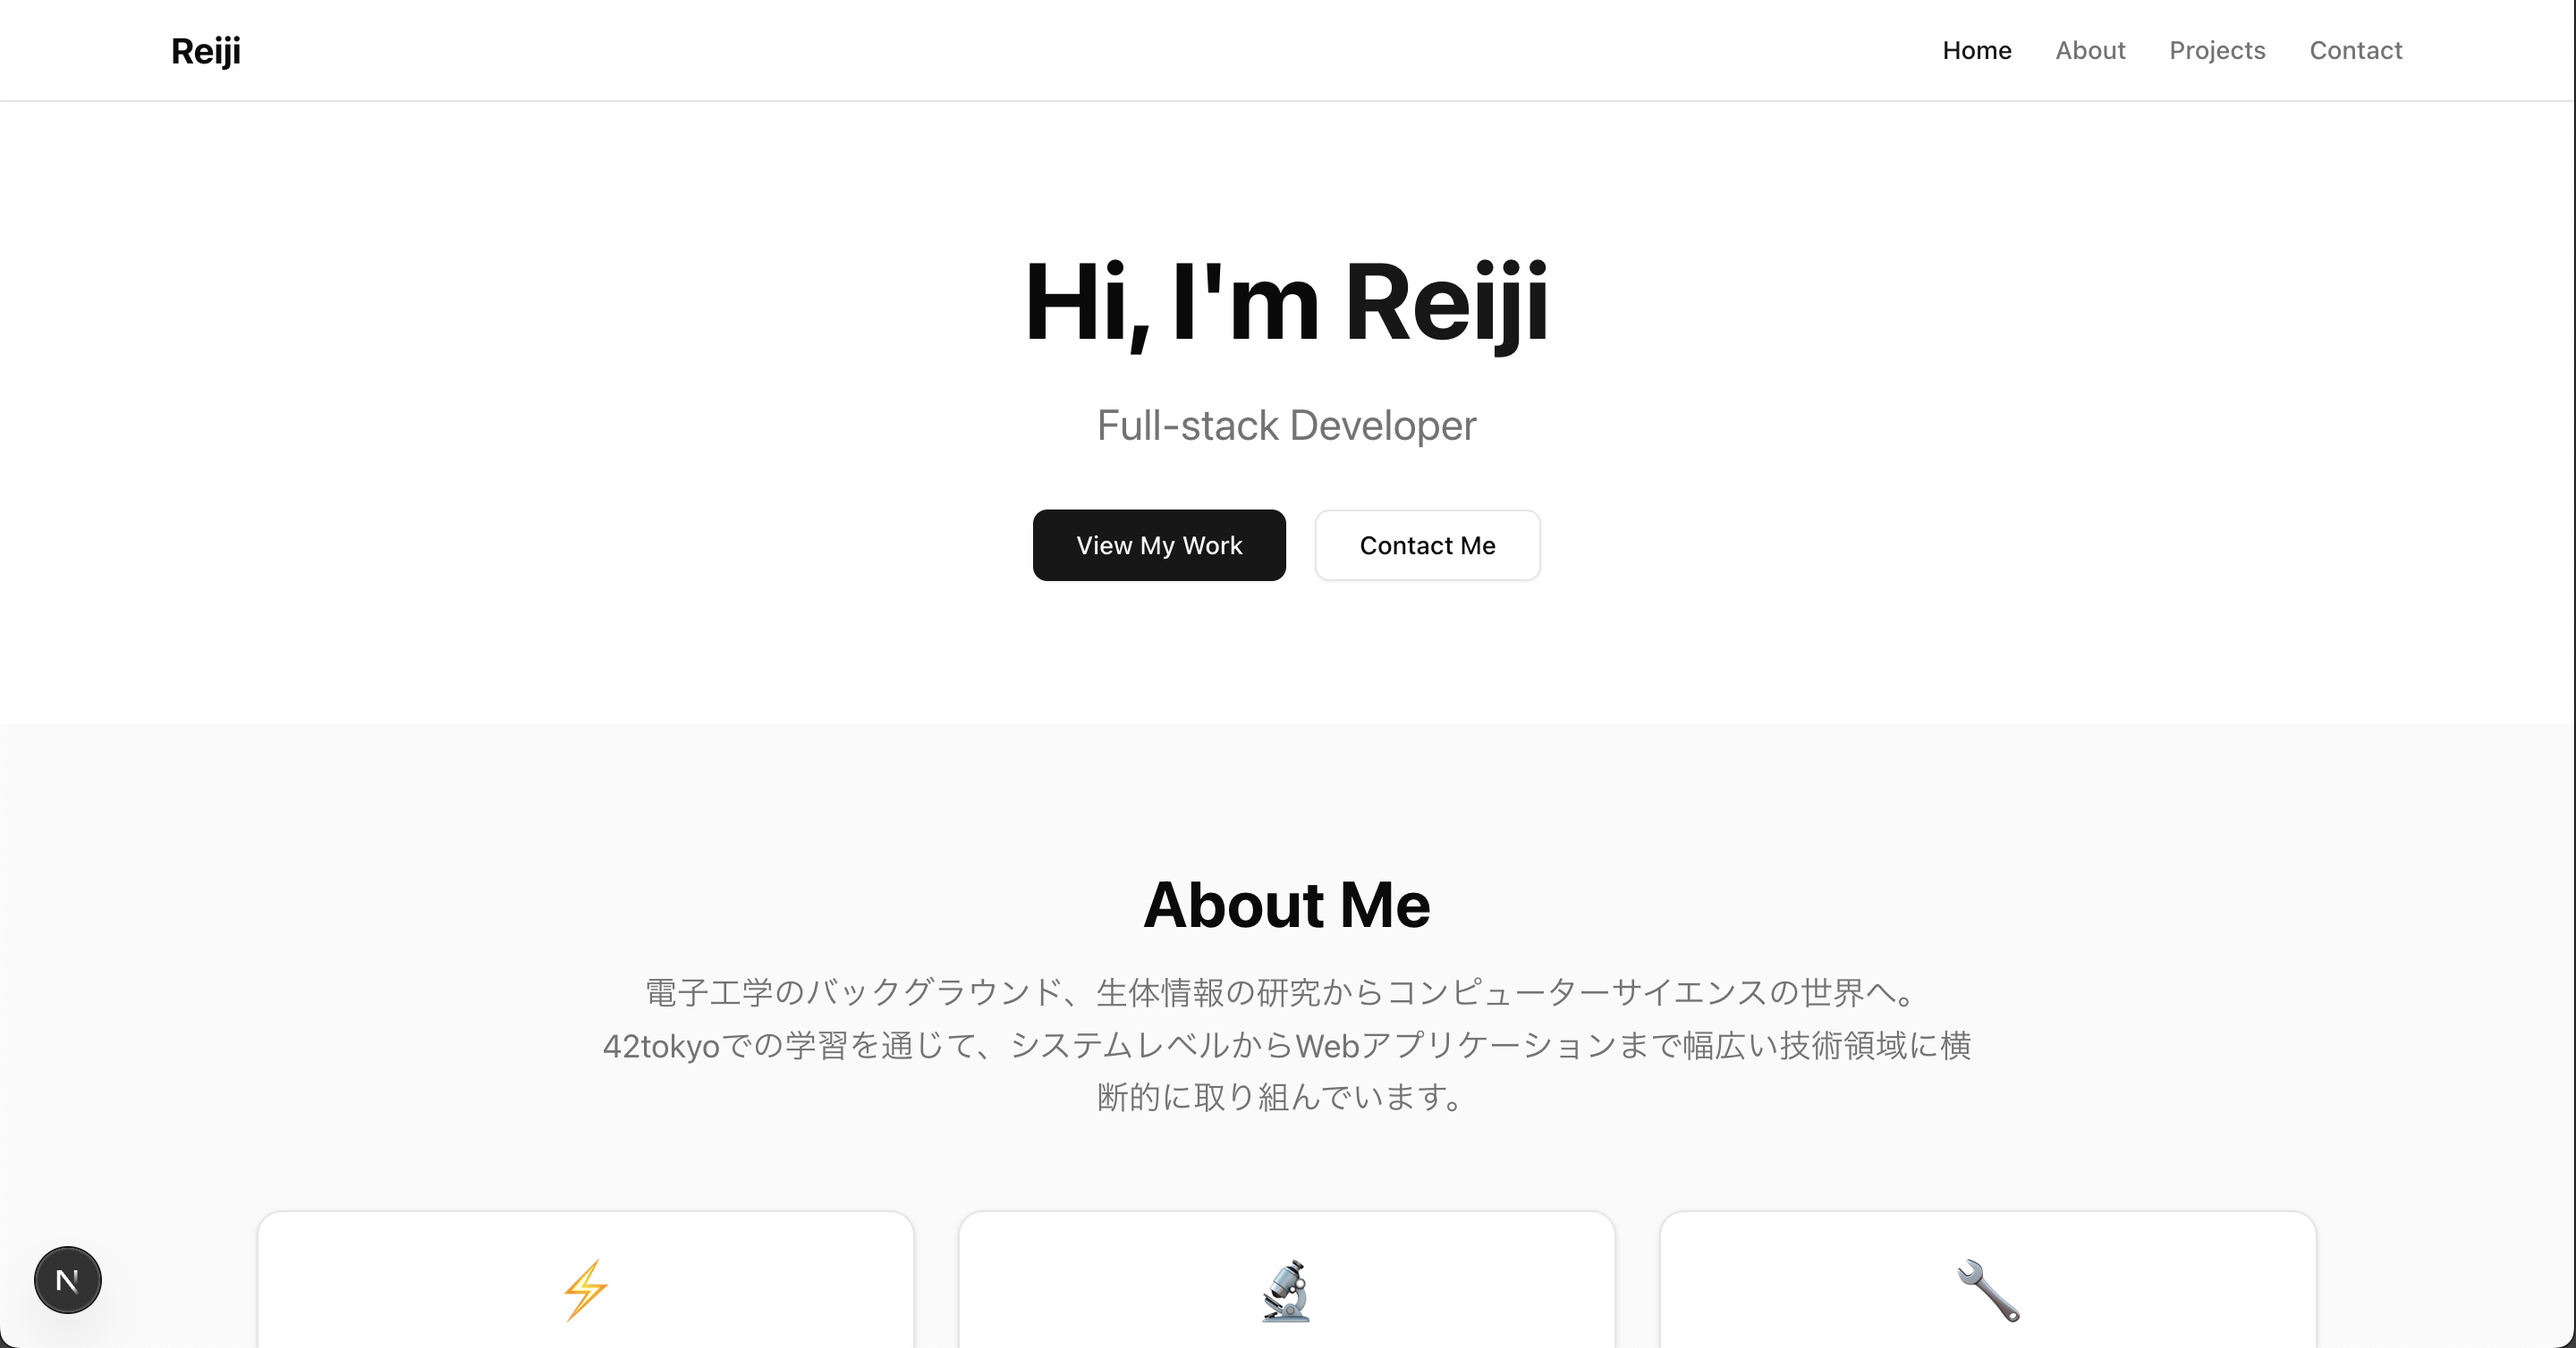
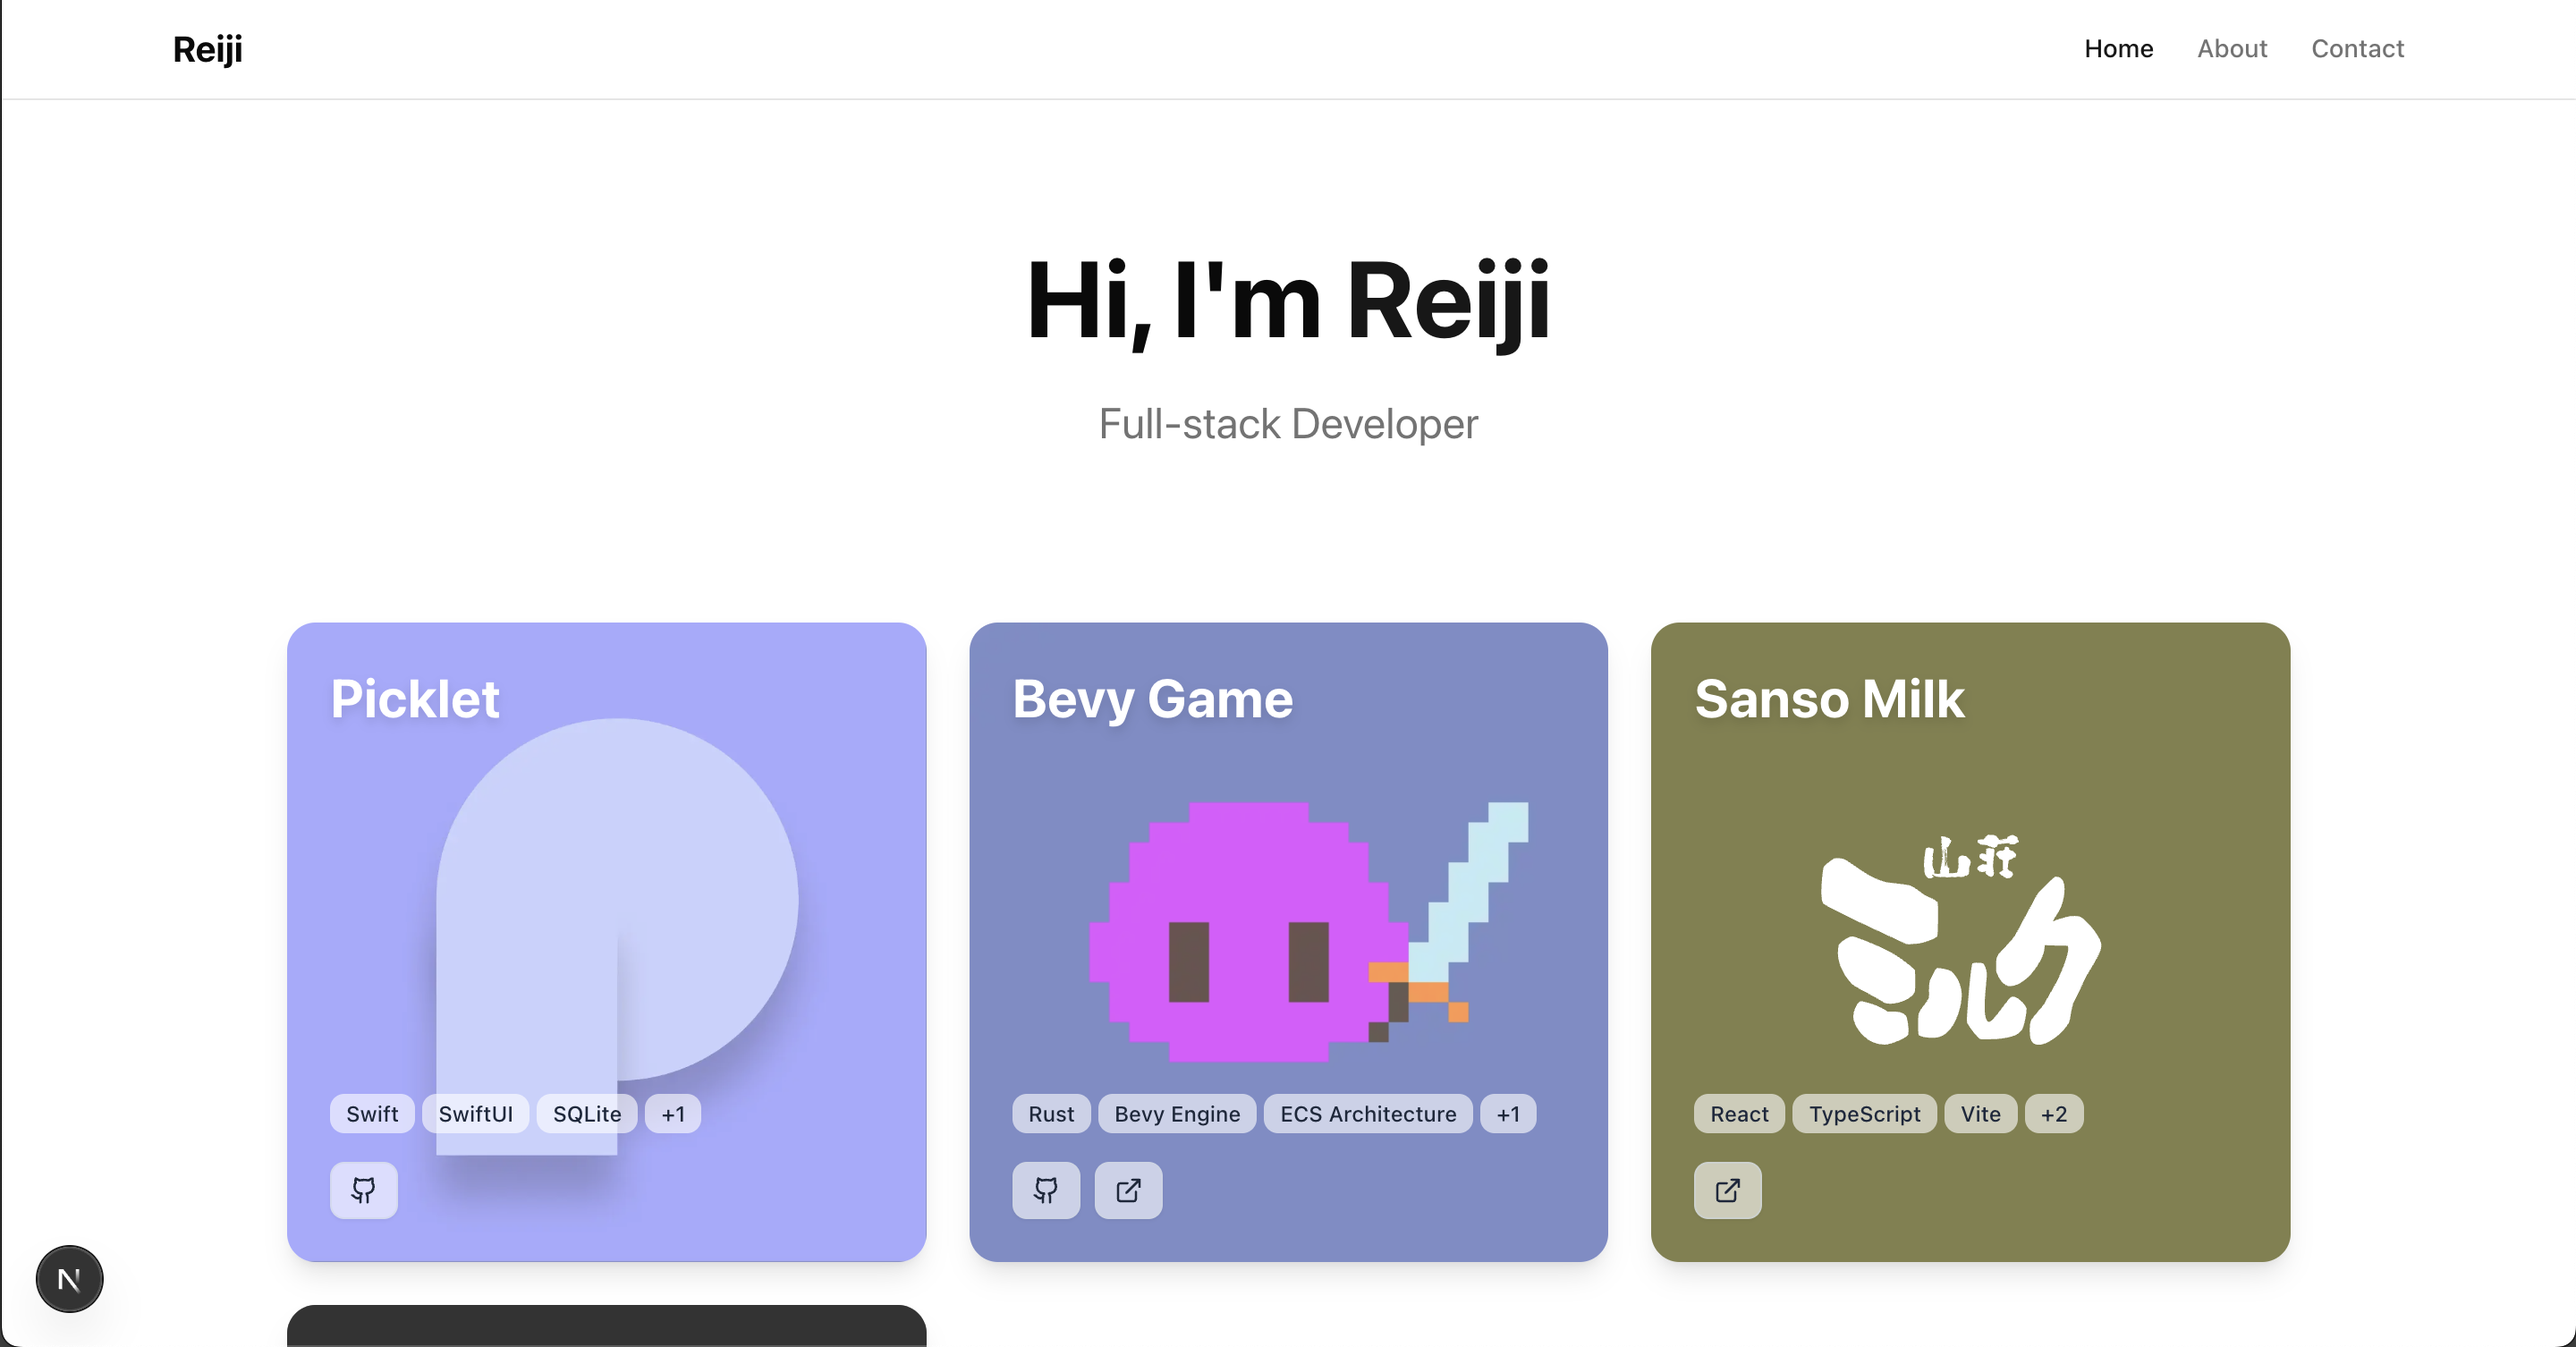
move about page & project page

diff --git a/src/components/header.tsx b/src/components/header.tsx
@@ -1,12 +1,15 @@
 "use client";
 
-import { motion } from "framer-motion";
+import { useState } from "react";
+import { motion, AnimatePresence } from "framer-motion";
 import { Button } from "@/components/ui/button";
 import Link from "next/link";
 import { usePathname } from "next/navigation";
+import { Menu, X } from "lucide-react";
 
 export function Header() {
   const pathname = usePathname();
+  const [isMenuOpen, setIsMenuOpen] = useState(false);
 
   const isActive = (path: string) => {
     if (path === "/" && pathname === "/") return true;
@@ -14,71 +17,138 @@ export function Header() {
     return false;
   };
 
+  const toggleMenu = () => {
+    setIsMenuOpen(!isMenuOpen);
+  };
+
+  const closeMenu = () => {
+    setIsMenuOpen(false);
+  };
+
   return (
-    <motion.header
-      initial={{ opacity: 0, y: -20 }}
-      animate={{ opacity: 1, y: 0 }}
-      transition={{ duration: 0.6 }}
-      className="sticky top-0 z-50 w-full border-b bg-background/95 backdrop-blur supports-[backdrop-filter]:bg-background/60"
-    >
-      <div className="container mx-auto flex h-14 items-center justify-between px-4">
-        {/* Logo */}
-        <div className="flex items-center space-x-2">
-          <Link
-            href="/"
-            className="text-xl font-bold hover:text-primary transition-colors"
-          >
-            Reiji
-          </Link>
-        </div>
+    <>
+      <motion.header
+        initial={{ opacity: 0, y: -20 }}
+        animate={{ opacity: 1, y: 0 }}
+        transition={{ duration: 0.6 }}
+        className="sticky top-0 z-50 w-full border-b bg-background/95 backdrop-blur supports-[backdrop-filter]:bg-background/60"
+      >
+        <div className="container mx-auto flex h-14 items-center justify-between px-4">
+          {/* Logo */}
+          <div className="flex items-center space-x-2">
+            <Link
+              href="/"
+              className="text-xl font-bold hover:text-primary transition-colors"
+              onClick={closeMenu}
+            >
+              Reiji
+            </Link>
+          </div>
 
-        {/* Navigation */}
-        <nav className="hidden md:flex items-center space-x-6">
-          <Link
-            href="/"
-            className={`text-sm font-medium transition-colors ${
-              isActive("/")
-                ? "text-primary"
-                : "text-muted-foreground hover:text-primary"
-            }`}
-          >
-            Home
-          </Link>
-          <Link
-            href="/#about"
-            className="text-sm font-medium text-muted-foreground hover:text-primary transition-colors"
-          >
-            About
-          </Link>
-          <Link
-            href="/projects"
-            className={`text-sm font-medium transition-colors ${
-              isActive("/projects")
-                ? "text-primary"
-                : "text-muted-foreground hover:text-primary"
-            }`}
-          >
-            Projects
-          </Link>
-          <Link
-            href="/contact"
-            className={`text-sm font-medium transition-colors ${
-              isActive("/contact")
-                ? "text-primary"
-                : "text-muted-foreground hover:text-primary"
-            }`}
-          >
-            Contact
-          </Link>
-        </nav>
+          {/* Desktop Navigation */}
+          <nav className="hidden md:flex items-center space-x-6">
+            <Link
+              href="/"
+              className={`text-sm font-medium transition-colors ${
+                isActive("/")
+                  ? "text-primary"
+                  : "text-muted-foreground hover:text-primary"
+              }`}
+            >
+              Home
+            </Link>
+            <Link
+              href="/about"
+              className={`text-sm font-medium transition-colors ${
+                isActive("/about")
+                  ? "text-primary"
+                  : "text-muted-foreground hover:text-primary"
+              }`}
+            >
+              About
+            </Link>
+            <Link
+              href="/contact"
+              className={`text-sm font-medium transition-colors ${
+                isActive("/contact")
+                  ? "text-primary"
+                  : "text-muted-foreground hover:text-primary"
+              }`}
+            >
+              Contact
+            </Link>
+          </nav>
 
-        {/* Mobile Menu Button (将来的にモバイル対応時に使用) */}
-        <div className="md:hidden">
-          <Button variant="ghost" size="sm">
-            Menu
-          </Button>
+          {/* Mobile Menu Button */}
+          <div className="md:hidden">
+            <Button variant="ghost" size="sm" onClick={toggleMenu}>
+              {isMenuOpen ? <X size={20} /> : <Menu size={20} />}
+            </Button>
+          </div>
         </div>
-      </div>
-    </motion.header>
+      </motion.header>
+
+      {/* Mobile Navigation Overlay */}
+      <AnimatePresence>
+        {isMenuOpen && (
+          <>
+            {/* Backdrop */}
+            <motion.div
+              initial={{ opacity: 0 }}
+              animate={{ opacity: 1 }}
+              exit={{ opacity: 0 }}
+              transition={{ duration: 0.2 }}
+              className="fixed inset-0 bg-black/20 z-40 md:hidden"
+              onClick={closeMenu}
+            />
+
+            {/* Menu */}
+            <motion.div
+              initial={{ opacity: 0, y: -10 }}
+              animate={{ opacity: 1, y: 0 }}
+              exit={{ opacity: 0, y: -10 }}
+              transition={{ duration: 0.2 }}
+              className="fixed top-14 left-0 right-0 z-50 bg-background border-b shadow-lg md:hidden"
+            >
+              <nav className="flex flex-col p-4">
+                <Link
+                  href="/"
+                  className={`text-sm font-medium transition-colors py-3 px-2 rounded hover:bg-muted ${
+                    isActive("/")
+                      ? "text-primary bg-muted"
+                      : "text-muted-foreground hover:text-primary"
+                  }`}
+                  onClick={closeMenu}
+                >
+                  Home
+                </Link>
+                <Link
+                  href="/about"
+                  className={`text-sm font-medium transition-colors py-3 px-2 rounded hover:bg-muted ${
+                    isActive("/about")
+                      ? "text-primary bg-muted"
+                      : "text-muted-foreground hover:text-primary"
+                  }`}
+                  onClick={closeMenu}
+                >
+                  About
+                </Link>
+                <Link
+                  href="/contact"
+                  className={`text-sm font-medium transition-colors py-3 px-2 rounded hover:bg-muted ${
+                    isActive("/contact")
+                      ? "text-primary bg-muted"
+                      : "text-muted-foreground hover:text-primary"
+                  }`}
+                  onClick={closeMenu}
+                >
+                  Contact
+                </Link>
+              </nav>
+            </motion.div>
+          </>
+        )}
+      </AnimatePresence>
+    </>
   );
 }

diff --git a/src/components/projects-section.tsx b/src/components/projects-section.tsx
@@ -1,45 +1,15 @@
 "use client";
 
-import { motion } from "framer-motion";
 import { ProjectCard } from "@/components/project-card";
 import { projects } from "@/lib/projects";
-import { Button } from "@/components/ui/button";
-import Link from "next/link";
-
-// Featured projects（最初の3つだけ表示）
-const featuredProjects = projects.slice(0, 3);
 
 export function ProjectsSection() {
 	return (
-		<section id="projects" className="py-20">
-			<div className="container mx-auto px-4">
-				<motion.div
-					initial={{ opacity: 0, y: 20 }}
-					whileInView={{ opacity: 1, y: 0 }}
-					transition={{ duration: 0.6 }}
-					viewport={{ once: true }}
-					className="text-center mb-12"
-				>
-					<h2 className="text-3xl md:text-4xl font-bold mb-4">
-						Featured Projects
-					</h2>
-					<p className="text-lg text-muted-foreground max-w-2xl mx-auto">
-						最近取り組んだプロジェクトの一部をご紹介します
-					</p>
-				</motion.div>
-
-				<div className="grid md:grid-cols-2 lg:grid-cols-3 gap-6 max-w-6xl mx-auto mb-8">
-					{featuredProjects.map((project) => (
-						<ProjectCard key={project.id} project={project} />
-					))}
-				</div>
-
-				{/* View All Projects Button */}
-				<div className="text-center">
-					<Button variant="outline" size="lg" asChild>
-						<Link href="/projects">View All Projects</Link>
-					</Button>
-				</div>
+		<section id="projects" className="py-8">
+			<div className="container mx-auto px-4 grid md:grid-cols-2 lg:grid-cols-3 gap-6 max-w-6xl">
+				{projects.map((project) => (
+					<ProjectCard key={project.id} project={project} />
+				))}
 			</div>
 		</section>
 	);

diff --git a/src/components/hero-section.tsx b/src/components/hero-section.tsx
@@ -1,12 +1,10 @@
 "use client";
 
 import { motion } from "framer-motion";
-import { Button } from "@/components/ui/button";
-import Link from "next/link";
 
 export function HeroSection() {
   return (
-    <section className="container mx-auto px-4 py-20 text-center">
+    <section className="container mx-auto px-4 py-20 pb-8 text-center">
       <motion.div
         initial={{ opacity: 0, y: 20 }}
         animate={{ opacity: 1, y: 0 }}
@@ -19,12 +17,6 @@ export function HeroSection() {
         <p className="text-xl md:text-2xl text-muted-foreground mb-8 max-w-2xl mx-auto">
           Full-stack Developer
         </p>
-        <Button size="lg" className="mr-4" asChild>
-          <Link href="/projects">View My Work</Link>
-        </Button>
-        <Button variant="outline" size="lg" asChild>
-          <Link href="/contact">Contact Me</Link>
-        </Button>
       </motion.div>
     </section>
   );

diff --git a/src/app/page.tsx b/src/app/page.tsx
@@ -1,14 +1,12 @@
 "use client";
 
 import { HeroSection } from "@/components/hero-section";
-import { AboutSection } from "@/components/about-section";
 import { ProjectsSection } from "@/components/projects-section";
 
 export default function Home() {
 	return (
 		<main className="min-h-screen bg-background">
 			<HeroSection />
-			<AboutSection />
 			<ProjectsSection />
 		</main>
 	);

diff --git a/src/app/projects/[id]/page.tsx b/src/app/projects/[id]/page.tsx
@@ -30,7 +30,7 @@ export default async function ProjectPage({ params }: ProjectPageProps) {
           <Button variant="ghost" asChild>
             <Link href="/#projects">
               <ArrowLeft className="mr-2 h-4 w-4" />
-              Back to Projects
+              Back to Home
             </Link>
           </Button>
         </div>

diff --git a/src/app/about/page.tsx b/src/app/about/page.tsx
@@ -1,0 +1,9 @@
+import { AboutSection } from "@/components/about-section";
+
+export default function AboutPage() {
+  return (
+    <div className="min-h-screen bg-background">
+      <AboutSection />
+    </div>
+  );
+}
